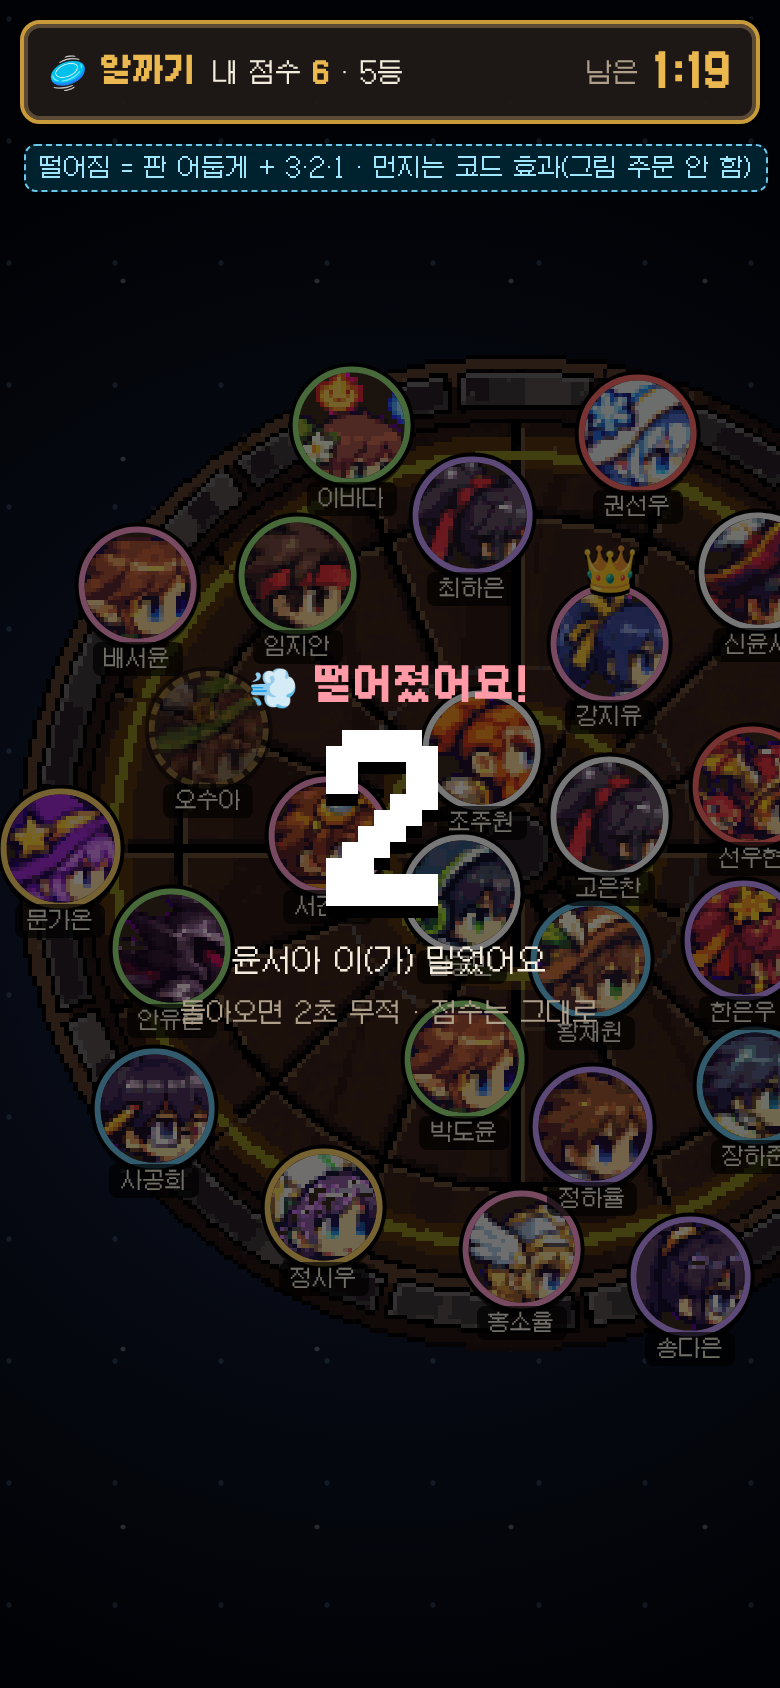
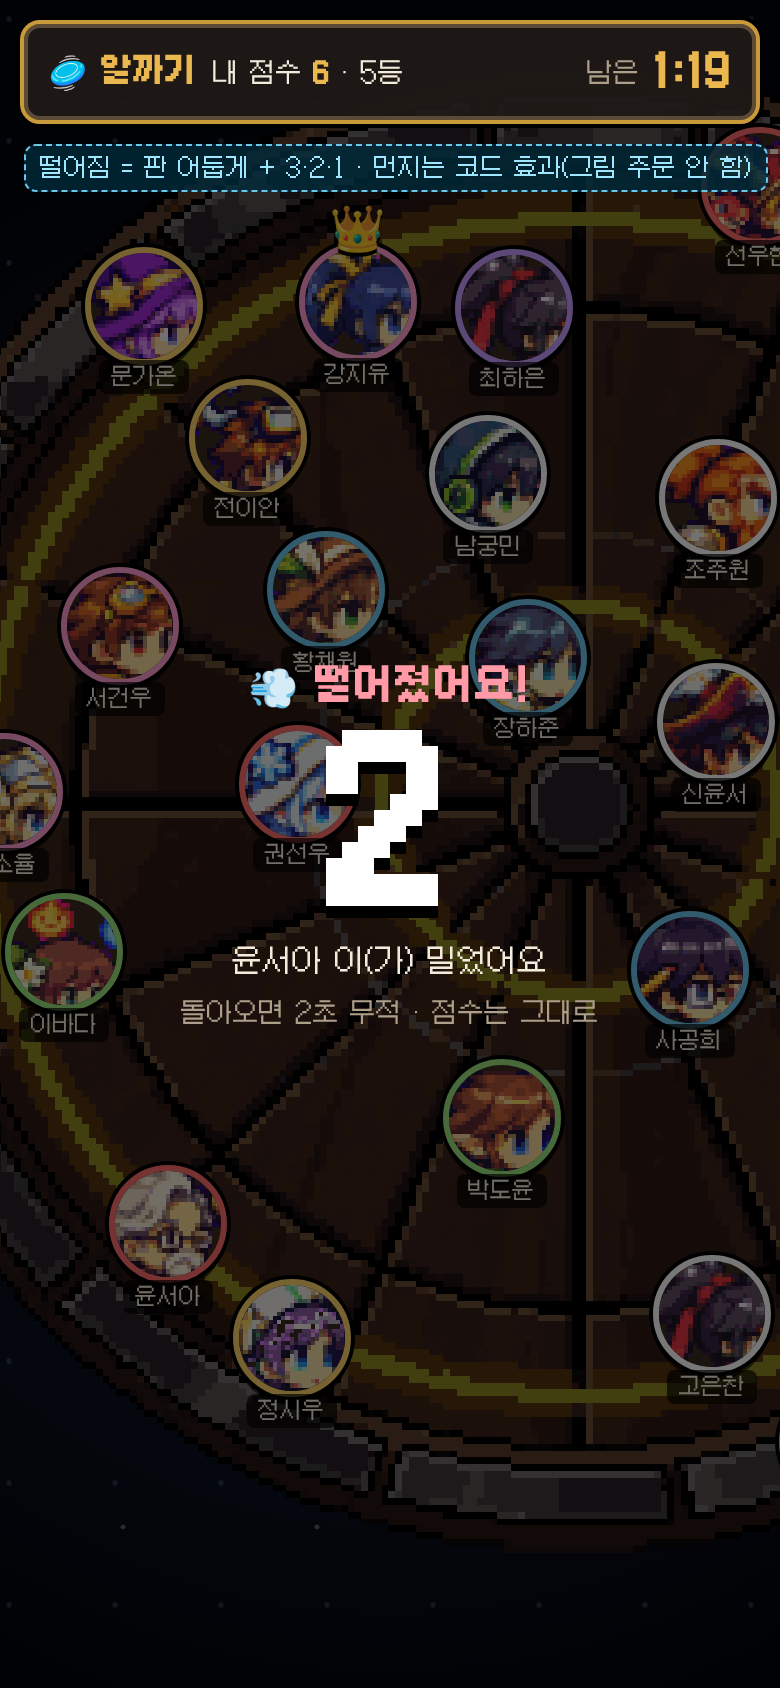
🎨 알까기 시안 v3: 원 출발(같은 거리 · 같은 간격) · 새 값 안 A/C + 모의 실험 (11/24)
Claude-Session: https://claude.ai/code/session_014JJv1ioE1uuu1uLzo26R9z

diff --git a/docs/handoff/minigame-mock/mock.html b/docs/handoff/minigame-mock/mock.html
@@ -165,27 +165,39 @@ S['ajae-ph-2'] = () => `<div class="screen ph"><div class="rays"></div><div clas
 
 // ───────── 🥏 알까기 v2 (11/24 선생님 피드백: 판 크게 · 알 크게 + 이름 · TV = 판 전체 · 폰 = 내 알 따라가는 창 + 확대 · 축소)
 // 판 단위: 알 반지름 0.9 (설계 v1 0.7 → 0.9 제안) · 판 반지름 = max(5.5, 2 + 1.2√n) 그대로 · 28명 = 8.3
-const N28 = 28, BR = Math.max(5.5, 2 + 1.2 * Math.sqrt(N28)), ER = 0.9;
+// 제안 C: 판 반지름 = 설계 공식 그대로 · 알 반지름 = 0.9 를 넘지 않고 출발 원(판의 0.8 안)에 n명이 같은 간격으로 들어가는 크기
+const N28 = 28, RING_GAP = 0.3, BR = Math.max(5.5, 2 + 1.2 * Math.sqrt(N28)), ER = Math.min(0.9, (2 * Math.PI * 0.8 * BR / N28 - RING_GAP) / 2);
+const RHO = Math.max(0.6 * BR, N28 * (2 * ER + RING_GAP) / (2 * Math.PI)); // 출발 원 반지름
+const START = Array.from({ length: N28 }, (_, i) => { const a = -Math.PI / 2 + 2 * Math.PI * i / N28; return [RHO * Math.cos(a), RHO * Math.sin(a)]; });
 const NM2 = NM.concat(['정하율','문가온','배서윤','고은찬']);
-const ALK = (() => { let s = 7; const rnd = () => (s = (s * 16807) % 2147483647) / 2147483647; const P = [[-3.2, 2.2]];
+const ALK_RAND = (() => { let s = 7; const rnd = () => (s = (s * 16807) % 2147483647) / 2147483647; const P = [[-3.2, 2.2]];
   while (P.length < N28) { const a = rnd() * 6.283, r = Math.sqrt(rnd()) * (BR - 1.3), x = Math.cos(a) * r, y = Math.sin(a) * r;
     if (P.every(([u, v]) => Math.hypot(u - x, v - y) > 2 * ER + 0.35)) P.push([x, y]); } return P; })();
+const ALK = ALK_RAND; // 진행 중 = 원에서 흩어진 모습(겹치지 않게 무작위 · 씨앗 고정)
 const ME = 0, CROWN = 5, GHOST = 11, RINGS = ['#ff6b6b','#6cc6ea','#9be07a','#c69cff','#ffd36a','#ff9fd1','#ffffff'];
 // sc = 화면 px / 판 단위 · (ox, oy) = 판 가운데가 놓일 화면 자리
 function alkDraw(ox, oy, sc, o = {}) {
+  const PTS = o.pts || ALK;
   let h = `<img class="board" src="../assets/minigame/alk-board-v1.png" style="left:${ox - BR * sc * 1.06}px;top:${oy - BR * sc * 1.06}px;width:${BR * sc * 2.12}px;height:${BR * sc * 2.12}px;${o.dim ? 'filter:brightness(.55)' : ''}">`;
   const d = 2 * ER * sc;
-  ALK.forEach(([x, y], i) => {
+  PTS.forEach(([x, y], i) => {
     if (i === o.skip) return;
     const X = ox + x * sc, Y = oy + y * sc;
     if (o.clip && (X < -d || X > o.clip[0] + d || Y < o.clip[1] - d || Y > o.clip[2] + d)) return;
     let cls = i === ME ? 'me' : ''; if (i === GHOST) cls += ' ghost';
     h += egg(i, X, Y, d, cls, RINGS[i % 7]);
     if (i === CROWN) h += `<div class="crown" style="left:${X}px;top:${Y - d / 2 + 6}px;font-size:${Math.max(16, d * .38)}px">👑</div>`;
-    if (o.names !== false) h += `<div class="lbl" style="left:${X}px;top:${Y + d / 2 - 2}px;font-size:${o.fs || 12}px;${i === ME ? 'background:#ebb84f;color:#1a120a;font-weight:700' : ''}">${i === ME ? '나' : NM2[i]}</div>`;
+    if (o.names !== false) h += `<div class="lbl" style="left:${o.out ? X + x / Math.hypot(x, y) * (d * .95) : X}px;top:${o.out ? Y + y / Math.hypot(x, y) * (d * .95) - 8 : Y + d / 2 - 2}px;font-size:${o.fs || 12}px;${i === ME ? 'background:#ebb84f;color:#1a120a;font-weight:700' : ''}">${i === ME ? '나' : NM2[i]}</div>`;
   });
   return h;
 }
+S['alk-tv-start'] = () => { const sc = 316 / (BR * 1.06), ox = 450, oy = 400; return `<div class="screen tv"><div class="abyss"></div>
+ <div class="topbar"><span class="t">🥏 알까기 난장판</span><span class="pill">참가 28명</span><span class="sp"></span><b style="font-size:26px;color:var(--gold)">준비 · 3</b></div>
+ ${alkDraw(ox, oy, sc, { fs: 11, pts: START, out: true })}
+ <svg style="position:absolute;left:0;top:0" width="1280" height="720"><circle cx="${ox}" cy="${oy}" r="${RHO * sc}" fill="none" stroke="#ffffff55" stroke-width="2" stroke-dasharray="6 8"/><circle cx="${ox}" cy="${oy}" r="5" fill="#ebb84f"/></svg>
+ <div class="box" style="position:absolute;right:20px;top:88px;width:330px;padding:16px;font-size:16px;line-height:1.7"><b style="color:var(--gold);font-size:19px">출발 자리</b><br>모두 판 가운데에서 <b>같은 거리</b>의 원 위<br>같은 간격(360° ÷ 28명)<br>되살아날 때도 이 원 위<br>· 다른 알과 가장 먼 자리</div>
+ <div class="note" style="left:860px;bottom:16px;max-width:400px">28명 · 알 지름 ${Math.round(2 * ER * sc)}px · 원 반지름 = 판의 ${(RHO / BR).toFixed(2)} · 이름표 = 바깥쪽</div>
+</div>`; };
 S['alk-tv'] = () => { const sc = 316 / (BR * 1.06), ox = 450, oy = 400; return `<div class="screen tv"><div class="abyss"></div>
  <div class="topbar"><span class="t">🥏 알까기 난장판</span><span class="pill">참가 28명</span><span class="sp"></span>
   <span style="font-size:15px;color:var(--muted)">남은 시간</span><b style="font-size:30px;color:var(--gold)">1:23</b></div>
@@ -205,7 +217,8 @@ S['alk-tv'] = () => { const sc = 316 / (BR * 1.06), ox = 450, oy = 400; return `
   <div><b>${NM2[7]}</b> → ${NM2[14]} 떨어뜨림 <b>+3</b></div>
   <div><b>${NM2[1]}</b> → ${NM2[20]} 맞힘 <b>+1</b></div>
   <div style="color:var(--muted)">${NM2[GHOST]} 되살아남(무적 2초)</div></div>
- <div class="note" style="left:${ox + BR * sc + 40}px;bottom:16px;max-width:330px">28명 판 전체 = 한 화면 · 알 지름 ${Math.round(2 * ER * sc)}px · 이름표 = 알 아래</div>
+ <div class="note" style="left:860px;bottom:16px;max-width:400px">28명 판 전체 = 한 화면 · 알 지름 ${Math.round(2 * ER * sc)}px · 이름표 = 알 아래 · 출발 원(점선)에서 흩어진 모습</div>
+ <svg style="position:absolute;left:0;top:0;pointer-events:none" width="1280" height="720"><circle cx="${ox}" cy="${oy}" r="${RHO * sc}" fill="none" stroke="#ffffff33" stroke-width="2" stroke-dasharray="6 8"/></svg>
 </div>`; };
 // 폰: 내 알을 가운데 두는 창(카메라) · 창 밖 알 = 가장자리 화살표 + 이름
 function edgeMarks(ox, oy, sc, W, top, bot) {
@@ -223,7 +236,7 @@ const zoomUI = (z) => `<div style="position:absolute;left:10px;top:${z.top}px;di
   <div class="btn ${z.all ? 'gold' : 'dark'}" style="width:48px;height:48px;font-size:12px;line-height:1.1;text-align:center">⛶<br>전체</div></div>`;
 const phTop = (t) => `<div style="position:absolute;left:10px;right:10px;top:10px;height:52px;display:flex;align-items:center;gap:8px;padding:0 12px;z-index:3" class="box">
   <b style="color:var(--gold)">🥏 알까기</b><span style="font-size:13px">내 점수 <b style="color:var(--gold)">6</b> · 5등</span><span class="sp"></span><span style="color:var(--muted);font-size:13px">남은</span><b style="color:var(--gold);font-size:20px">${t}</b></div>`;
-S['alk-ph-1'] = () => { const sc = 33, [mx, my] = ALK[ME], cxu = mx * .6, cyu = my * .6, ox = 195 - cxu * sc, oy = 470 - cyu * sc, top = 70, bot = 790, MX = ox + mx * sc, MY = oy + my * sc;
+S['alk-ph-1'] = () => { const sc = 59 / (2 * ER), [mx, my] = ALK[ME], cxu = mx * .6, cyu = my * .6, ox = 195 - cxu * sc, oy = 470 - cyu * sc, top = 70, bot = 790, MX = ox + mx * sc, MY = oy + my * sc;
   const tgt = ALK.map((p, i) => [p, i]).filter(([p, i]) => i !== ME).sort((a, b) => Math.hypot(a[0][0] - mx - 1.5, a[0][1] - my + 2.2) - Math.hypot(b[0][0] - mx - 1.5, b[0][1] - my + 2.2))[0];
   const tx = ox + tgt[0][0] * sc, ty = oy + tgt[0][1] * sc, ang = Math.atan2(ty - MY, tx - MX);
   return `<div class="screen ph"><div class="abyss"></div>
@@ -249,7 +262,7 @@ S['alk-ph-2'] = () => { const sc = 390 / (BR * 2.25), ox = 195, oy = 430; return
  <div class="toast" style="top:680px;left:70px;right:12px;background:#1f1a16ee;color:var(--text);border-color:#c99a3a;font-size:14px;padding:10px">⛶ 전체 보기 · 내 알을 누르면 다시 따라가기</div>
  <div class="note" style="left:12px;top:72px;z-index:4">「⛶ 전체」 = 판 전체(알이 작아짐 · 이름 작게) · 조준은 따라가기 창에서 권장</div>
 </div>`; };
-S['alk-ph-3'] = () => { const sc = 33, [mx, my] = ALK[ME], ox = 195 - mx * .6 * sc, oy = 470 - my * .6 * sc; return `<div class="screen ph"><div class="abyss"></div>
+S['alk-ph-3'] = () => { const sc = 59 / (2 * ER), [mx, my] = ALK[ME], ox = 195 - mx * .6 * sc, oy = 470 - my * .6 * sc; return `<div class="screen ph"><div class="abyss"></div>
  ${alkDraw(ox, oy, sc, { fs: 11, dim: true, skip: ME })}
  <div style="position:absolute;inset:0;background:#0008"></div>
  ${phTop('1:19')}

diff --git a/docs/handoff/minigame-mock/render.js b/docs/handoff/minigame-mock/render.js
@@ -1,6 +1,6 @@
 // 시안 찍기: node render.js  (playwright · 파일 열기)
 const { chromium } = require('playwright'); const path = require('path');
-const list = [['ajae-tv-1',1280,720],['ajae-tv-2',1280,720],['ajae-ph-1',390,844],['ajae-ph-2',390,844],['alk-tv',1280,720],['alk-ph-1',390,844],['alk-ph-2',390,844],['alk-ph-3',390,844]];
+const list = [['alk-tv-start',1280,720],['ajae-tv-1',1280,720],['ajae-tv-2',1280,720],['ajae-ph-1',390,844],['ajae-ph-2',390,844],['alk-tv',1280,720],['alk-ph-1',390,844],['alk-ph-2',390,844],['alk-ph-3',390,844]];
 (async () => { const b = await chromium.launch(); 
   for (const [s,w,h] of list) { const p = await b.newPage({ viewport:{width:w,height:h}, deviceScaleFactor: w>500?1.5:2 });
     await p.goto('file://' + path.join(__dirname, 'mock.html') + '?s=' + s); await p.waitForTimeout(600);

diff --git a/docs/handoff/minigame-mock/README.md b/docs/handoff/minigame-mock/README.md
@@ -8,31 +8,24 @@
 | ajae-tv-2.png | 😆 TV · 정답 공개 5초 | 빈칸 채움 + 빛 · 풀이 한 줄(why) · 지금 순위(같은 점수 같은 등수) |
 | ajae-ph-1.png | 😆 폰 · 글자 고르기 | 문제 · 빈칸 · 글자 칩 8개(쓴 칩 어둡게) · 한 글자 지우기 · 내 점수 |
 | ajae-ph-2.png | 😆 폰 · 맞힘 | 「✔ 정답! 2등 +2」 · 공개까지 기다림 |
-| alk-tv.png | 🥏 TV · **v2** | **28명 판 전체 = 한 화면** · 알 지름 64px(얼굴 보임) · 알마다 이름표 · 👑 1등 알 · 반투명 = 무적 · 떨어지는 알 · 점수 4줄 · 📣 방금 |
+| alk-tv-start.png | 🥏 TV · 출발 | **v3** 모두 판 가운데에서 같은 거리의 원 위 · 같은 간격 · 이름표 바깥쪽 |
+| alk-tv.png | 🥏 TV · **v3** | **28명 판 전체 = 한 화면** · 알 지름 43px(C안) · 알마다 이름표 · 👑 1등 알 · 반투명 = 무적 · 떨어지는 알 · 점수 4줄 · 📣 방금 |
 | alk-ph-1.png | 🥏 폰 · 따라가기 창 · 조준 | **내 알을 따라가는 창**(판 쪽으로 40% 당김 · 판의 약 65% 보임) · 알 지름 59px + 이름 · 창 밖 알 = 가장자리 ▶ + 이름 · 왼쪽 ＋ / － / ⛶ 전체 · 두 손가락 = 판만 확대 · 축소(페이지 확대는 그대로 막힘) · 당김 줄 · 점선 궤적 → 첫 부딪힘 알 → 빨강 「이대로면 떨어짐!」 · 세기 3칸 |
 | alk-ph-2.png | 🥏 폰 · ⛶ 전체 보기 | 판 전체(알 작게 · 이름 작게) · 「내 알을 누르면 다시 따라가기」 |
 | alk-ph-3.png | 🥏 폰 · 떨어짐 | 판 어둡게 · 3·2·1 · 누가 밀었는지 · 먼지 = 코드 효과 |
 
 시안에서 정한 척한 것(⏳ 선생님 · 손발 확인): 아재 폰 = 빈칸이 다 차면 바로 확인(「내기」 단추 없음) · 틀리면 빈칸 흔들림 + 칩 돌려줌 · TV 아래 참가 용사 줄.
 
-## 🥏 알까기 새 값 제안 (v2)
+## 🥏 알까기 새 값 제안 v3 — 원 출발 (11/24 선생님 「모두 공평하게 원판 중심에서 적당한 위치 · 원으로 둘러서 고르게」)
 
-| 값 | 설계 v1 | 제안 | 까닭 |
-|---|---|---|---|
-| 알 반지름(판 단위) | 0.7 | **0.9** | 얼굴이 보이게(28명 판 TV 알 지름 64px) |
-| 판 반지름 | max(5.5, 2 + 1.2√n) | **그대로** | 28명 = 8.3 → 판 : 알 = 9.3 : 1 |
-| TV 배율 | — | 판 지름 = 화면 높이 − 윗막대(≈ 630px · 1280×720 기준) | 판 전체 한 화면 |
-| 폰 배율(따라가기) | — | 알 지름 ≈ 59px(33px / 판 단위) · 창 = 내 알을 판 쪽으로 40% 당긴 자리 | 판의 약 65% · 빈 하늘 덜 보임 |
-| 폰 ⛶ 전체 | — | 판 지름 = 폰 폭 × 0.9 | 28명이면 알 지름 ≈ 37px |
+**막힌 점(기하)**: 28명이 판 가운데에서 같은 거리의 원 한 줄에 서려면, 원 둘레 ÷ 28 ≥ 알 지름 + 틈. TV 에서 판 전체가 보이면 원 둘레가 화면 높이에 묶여서 **28명 판의 알 지름은 어떻게 해도 ≈ 40 ~ 43px**(얼굴은 보이지만 v2 의 64px 보다 작음). 알을 키우려면 판을 키워야 하고, 판을 키우면 다시 화면에서 작아짐.
 
-모의 실험(설계 방 sim.py · 봇 8판씩 · 같은 씨앗) — 알 0.7 → 0.9:
+| 안 | 판 반지름 | 알 반지름 | 출발 원 | TV 28명 알 지름 | 28명 0점 학생 | 28명 떨어뜨린 수 |
+|---|---|---|---|---|---|---|
+| A 판을 키움 | max(공식, 원이 판의 0.7 안에 들게) → 28명 13.4 | 0.9 | 판의 0.7 | 40px | 13% | 2.2 |
+| **C 알이 인원에 맞춰 작아짐 (추천)** | 설계 공식 그대로 → 28명 8.3 | **min(0.9, 원(판의 0.8)에 n명이 들어가는 크기)** → 8 · 12명 0.9 · 20명 0.78 · 28명 0.6 | max(판의 0.6, n명이 들어가는 반지름) · 최대 판의 0.8 | **43px** | **2%** | 3.7 |
 
-| 인원 | 떨어뜨린 수 0.7 → 0.9 | 1등 점수 | 0점인 학생 | 혼자 떨어진 비율 |
-|---|---|---|---|---|
-| 4 | 7.4 → 10.4 | 12.1 → 13.8 | 0% → 0% | 9% → 9% |
-| 8 | 5.7 → 8.8 | 9.4 → 13.9 | 0% → 0% | 4% → 5% |
-| 12 | 4.2 → 6.9 | 8.1 → 11.4 | 0% → 0% | 3% → 1% |
-| 20 | 2.6 → 4.4 | 6.2 → 8.4 | 9% → 2% | 3% → 1% |
-| 28 | 1.9 → 3.5 | 5.9 → 7.2 | 15% → 2% | 1% → 1% |
-
-→ 알이 커지면 부딪히기 쉬워 **0점 학생이 15% → 2%**(28명) · 4 ~ 8명 판은 꽤 정신없어짐(한 사람 150초에 9 ~ 10번 떨어뜨림). 4 ~ 8명이 너무 정신없으면 작은 판만 최소 반지름 5.5 → 6.5 로 키우는 길(⏳ 선생님 · 설계 방 확인).
+- 모의 실험 = 설계 방 sim.py 를 원 출발 · 원 위 되살아남(다른 알과 가장 먼 자리)으로 고쳐 봇 8판씩(sim_ring 은 이 방 실험용 · 저장소에 안 넣음). C 전체: 8명 0점 0% · 떨어뜨림 6.4 / 12명 0% · 4.5 / 20명 10% · 2.6 / 24명 6% · 3.4 / 28명 2% · 3.7.
+- C 의 출발 원: 8명 = 판의 0.6(3.3) · 12명 0.65 · 20 ~ 28명 0.8(가장자리까지 알 ≈ 2.7개). 같은 간격 = 360° ÷ n · 「나」 = 맨 위부터 번호 순(시안) — 순서는 ⏳(번호 · 무작위).
+- 폰 따라가기 창 = 알 지름을 59px 로 맞춤(28명이면 판의 약 45% 보임) · ⛶ 전체 = 판 전체.
+- 시안: alk-tv-start.png(출발 원 · 점선) · alk-tv.png(진행 중) · alk-ph-1 ~ 3 = C 값으로 다시 찍음.
